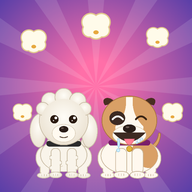
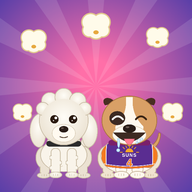
Marley's #4 Suns-style jersey + Speak trick
- New 'suns-jersey' outfit (purple, orange side panels/trim, sun burst, SUNS, big 4), worn over the chest in every pose and while inflating
- Marley's gold tag moves up onto the collar when she wears an outfit
- Jersey shows on the character select card and the app icon
- Speak trick: 3 barks in each dog's own voice with head lift, open-mouth bark face and WOOF!/YIP! bubble; Good Dog bonus and can be requested
- Trick buttons now a 3x2 grid; service worker cache bumped to v2
- New screenshots (screens/20-*)

diff --git a/games/pop-the-dog/dogs.js b/games/pop-the-dog/dogs.js
@@ -6,7 +6,7 @@
    Each part is a small SVG that gets turned into a picture once, then the
    game moves/rotates the parts every frame using a POSE.
 
-   Faces:  normal | happy | miss   (Bella's "miss" face is her famous RBF)
+   Faces:  normal | happy | miss | bark   (Bella's "miss" face is her famous RBF)
 
    HOW TO ADD AN OUTFIT (example: a Suns jersey for Marley)
      1. Add an entry to OUTFITS below, e.g.
@@ -16,7 +16,33 @@
      2. Set  outfit: 'suns-jersey'  on the dog in DOGS below.             */
 (function () {
   const OUTFITS = {
-    // none yet - Lucas is still deciding!
+    // Lucas's pick: a Phoenix-Suns-style fan jersey, number 4 (generic design, not an official logo)
+    'suns-jersey': {
+      name: 'Sun Jersey #4',
+      box: [80, 255, 240, 130],
+      tagUp: true,              // move the collar tag up onto the collar so it doesn't cover the jersey
+      svg: () =>
+        '<defs><clipPath id="jc"><ellipse cx="200" cy="322" rx="121" ry="79"/></clipPath></defs>' +
+        '<g clip-path="url(#jc)">' +
+        // main jersey
+        '<path d="M70 262 L330 262 L330 362 Q200 392 70 362 Z" fill="#5a2d91"/>' +
+        // orange side panels
+        '<path d="M70 262 L104 262 Q96 320 102 372 L70 366 Z" fill="#f47b20"/>' +
+        '<path d="M330 262 L296 262 Q304 320 298 372 L330 366 Z" fill="#f47b20"/>' +
+        '<path d="M104 262 Q96 320 102 372 M296 262 Q304 320 298 372" stroke="#fff" stroke-width="3" fill="none"/>' +
+        // hem trim
+        '<path d="M70 358 Q200 388 330 358" stroke="#f47b20" stroke-width="7" fill="none"/>' +
+        '<path d="M70 352 Q200 382 330 352" stroke="#fff" stroke-width="2.5" fill="none"/>' +
+        '</g>' +
+        // little sun burst + SUNS
+        '<g transform="translate(200 307)">' +
+        '<g stroke="#f9a825" stroke-width="3" stroke-linecap="round">' +
+        '<path d="M-30 0 l-10 0 M30 0 l10 0 M-21 -15 l-7 -7 M21 -15 l7 -7 M0 -20 l0 -9 M-11 -19 l-4 -8 M11 -19 l4 -8"/></g>' +
+        '<path d="M-17 0 A17 17 0 0 1 17 0 Z" fill="#f9a825"/></g>' +
+        '<text x="200" y="326" text-anchor="middle" font-family="Arial Black, Arial, Helvetica, sans-serif" font-weight="900" font-size="20" fill="#fff" letter-spacing="2">SUNS</text>' +
+        // big number 4
+        '<text x="200" y="368" text-anchor="middle" font-family="Arial Black, Arial, Helvetica, sans-serif" font-weight="900" font-size="46" fill="#f47b20" stroke="#fff" stroke-width="3" paint-order="stroke">4</text>',
+    },
   };
 
   const GROUND = 410;
@@ -95,11 +121,12 @@
       '<path d="M154 399 v10 M165 398 v11 M176 399 v10" stroke="#c9b79c" stroke-width="2"/>' },
     head: { box: [58, 52, 286, 266], pivot: [200, 262] },
   };
-  function marleyHead() {
+  function marleyHead(tagUp) {
     return '<path d="M95 105 C70 70 120 60 140 95 Z" fill="#4a2e22"/>' +
       '<path d="M305 105 C330 70 280 60 260 95 Z" fill="#4a2e22"/>' +
       '<rect x="110" y="254" width="180" height="24" rx="12" fill="#7a1f6a"/>' +
-      '<circle cx="200" cy="292" r="12" fill="#e2b33c" stroke="#a37a1c" stroke-width="2"/>' +
+      (tagUp ? '<circle cx="200" cy="270" r="11" fill="#e2b33c" stroke="#a37a1c" stroke-width="2"/>'
+             : '<circle cx="200" cy="292" r="12" fill="#e2b33c" stroke="#a37a1c" stroke-width="2"/>') +
       '<ellipse cx="200" cy="170" rx="118" ry="105" fill="#d9a066" stroke="#a9733f" stroke-width="3"/>' +
       '<path d="M185 70 C190 120 175 160 140 195 C130 250 270 250 260 195 C225 160 210 120 215 70 Z" fill="#fff8ee"/>' +
       '<ellipse cx="148" cy="160" rx="34" ry="30" fill="#3d2a22"/>';
@@ -125,12 +152,14 @@
         snout +
         '<path d="M182 242 L222 239" stroke="#5a4636" stroke-width="4" stroke-linecap="round"/>';
     }
-    // normal: wide-eyed popcorn stare
+    // normal: wide-eyed popcorn stare  (bark: same eyes, mouth wide open)
     return '<circle cx="160" cy="165" r="18" fill="#2a1a10"/><circle cx="240" cy="165" r="18" fill="#2a1a10"/>' +
       '<circle cx="166" cy="159" r="6" fill="#fff"/><circle cx="246" cy="159" r="6" fill="#fff"/>' +
       '<circle cx="156" cy="171" r="2.5" fill="#fff"/><circle cx="236" cy="171" r="2.5" fill="#fff"/>' +
-      snout +
-      '<path d="M184 240 Q200 248 216 240" stroke="#5a4636" stroke-width="4" fill="none" stroke-linecap="round"/>';
+      (face === 'bark'
+        ? '<path d="M120 135 Q160 122 180 140 M220 140 Q240 122 280 135" stroke="#cbbfa8" stroke-width="5" fill="none" stroke-linecap="round"/>' + snout +
+          '<ellipse cx="200" cy="252" rx="24" ry="22" fill="#5a2c24"/><path d="M186 262 Q200 278 214 262 Z" fill="#ff7f93"/>'
+        : snout + '<path d="M184 240 Q200 248 216 240" stroke="#5a4636" stroke-width="4" fill="none" stroke-linecap="round"/>');
   }
 
 
@@ -161,9 +190,11 @@
           '<path d="M232 140 Q250 125 270 135" stroke="#6b4a32" stroke-width="5" fill="none" stroke-linecap="round"/>') +
       jowls +
       (sad ? '<path d="M165 252 Q200 232 235 252" stroke="#3d2a22" stroke-width="6" fill="none" stroke-linecap="round"/>'
+           : face === 'bark' ? '<path d="M138 222 Q200 318 262 222 Z" fill="#3d2a22"/>'
            : '<path d="M135 225 Q200 285 265 225" fill="#3d2a22" opacity="0.85"/>') +
       nose +
-      (sad ? '' : '<path d="M185 248 Q200 280 215 248 Z" fill="#ff7f93"/>') +
+      (sad ? '' : face === 'bark' ? '<path d="M178 262 Q200 300 222 262 Z" fill="#ff7f93" stroke="#e0607a" stroke-width="2"/>'
+           : '<path d="M185 248 Q200 280 215 248 Z" fill="#ff7f93"/>') +
       marleyDrool;
   }
 
@@ -184,13 +215,13 @@
       blurb: 'Chubby, slobbery, lovable goober.',
       power: 'Slobber bonus: drool makes popcorn stick!',
       color: '#e8b27a',
-      outfit: null,
+      outfit: 'suns-jersey',   // Lucas's pick! (set to null to take it off)
       catchBonus: 1.15,
       voice: { pitch: 0.72, gruff: 0.8 },  // lower, gruffer bark
       parts: marleyParts, headSvg: marleyHead, face: marleyFace,
     },
   };
-  const FACES = ['normal', 'happy', 'miss'];
+  const FACES = ['normal', 'happy', 'miss', 'bark'];
 
   // ---------- turn part SVGs into pictures (offscreen canvases) ----------
   const RES = 2;   // pixels per art unit (sharp enough for phones)
@@ -217,7 +248,8 @@
     const jobs = [];
     ['tail', 'backStand', 'backSit', 'body', 'leg', 'paw'].forEach(k =>
       jobs.push(svgImage(P[k].box, P[k].svg).then(c => { out[k] = c; })));
-    FACES.forEach(f => jobs.push(svgImage(P.head.box, d.headSvg() + d.face(f)).then(c => { out.faces[f] = c; })));
+    const tagUp = !!(d.outfit && OUTFITS[d.outfit] && OUTFITS[d.outfit].tagUp);
+    FACES.forEach(f => jobs.push(svgImage(P.head.box, d.headSvg(tagUp) + d.face(f)).then(c => { out.faces[f] = c; })));
     if (d.outfit && OUTFITS[d.outfit]) {
       const o = OUTFITS[d.outfit];
       jobs.push(svgImage(o.box, o.svg(dogId)).then(c => { out.outfit = c; out.outfitBox = o.box; }));
@@ -262,6 +294,7 @@
     pretty: { dy: -8, back: 'sit', fl: -2.1, fls: 0.42, fr: -2.1, frs: 0.42, headDY: -6, sy: 1.04, tail: 0.4 },
     pretty2: { dy: -14, back: 'sit', fl: -1.85, fls: 0.45, fr: -1.85, frs: 0.45, headDY: -8, headRot: 0.1, sy: 1.05, tail: 0.4 },
     beg: { dy: 0, headRot: 0.22, wag: 0.4 },
+    speak: { dy: 22, back: 'sit', headDY: -18, headRot: -0.08, tail: 0.6, wag: 1.3, sy: 1.03 },
   };
   function pose(name, extra) { return Object.assign({}, BASE, POSES[name] || {}, extra || {}); }
   const ease = t => t < 0.5 ? 2 * t * t : 1 - Math.pow(-2 * t + 2, 2) / 2;
@@ -289,7 +322,13 @@
       [0, pose('stand')], [0.35, pose('sit')], [0.8, pose('pretty')], [1.1, pose('pretty2')], [1.4, pose('pretty')],
       [1.7, pose('pretty2')], [2.0, pose('pretty')], [2.4, pose('sit')], [2.8, pose('sit')]] },
   };
-  const TRICK_ORDER = ['shake', 'sit', 'stay', 'rollover', 'sitpretty'];
+  // Speak: she barks on command (game.js plays a bark + WOOF! at each time in "barks")
+  TRICKS.speak = { name: 'Speak', icon: 'speak', dur: 2.3, barks: [0.55, 1.05, 1.55], keys: [
+    [0, pose('stand')], [0.35, pose('sit', { dy: 22 })],
+    [0.55, pose('speak')], [0.8, pose('sit', { dy: 22, headDY: -4 })],
+    [1.05, pose('speak', { headRot: 0.08 })], [1.3, pose('sit', { dy: 22, headDY: -4 })],
+    [1.55, pose('speak')], [1.9, pose('sit', { dy: 22 })], [2.3, pose('sit')]] };
+  const TRICK_ORDER = ['shake', 'sit', 'stay', 'speak', 'rollover', 'sitpretty'];
   function trickPose(id, time) {
     const k = TRICKS[id].keys;
     if (time <= k[0][0]) return k[0][1];
@@ -336,7 +375,6 @@
     t.save(); t.translate(0, p.dy);
     t.about(200, 330, () => t.rotate(p.lean));
     put(imgs.body, P.body.box);
-    if (imgs.outfit) put(imgs.outfit, imgs.outfitBox);
     info.body = t.m();
     t.restore();
 
@@ -359,6 +397,14 @@
     const raised = Math.abs(p.fl) > 1.6 || Math.abs(p.fr) > 1.6;
     const legs = () => { leg(-1, p.fl, p.fls); leg(1, p.fr, p.frs); };
     if (!raised) legs();
+
+    // outfit: worn over the chest, so the front legs come out from under it
+    if (imgs.outfit) {
+      t.save(); t.translate(0, p.dy);
+      t.about(200, 330, () => t.rotate(p.lean));
+      put(imgs.outfit, imgs.outfitBox);
+      t.restore();
+    }
 
     // head
     t.save(); t.translate(0, p.dy + p.headDY);

diff --git a/games/pop-the-dog/game.js b/games/pop-the-dog/game.js
@@ -354,6 +354,7 @@
     sit: '<svg viewBox="0 0 32 32"><path d="M9 28 V20 Q9 12 15 11 L15 6 Q15 3 18 3 L22 4 L25 7 L21 9 L21 13 Q25 17 24 28 Z" fill="#fff"/></svg>',
     hand: '<svg viewBox="0 0 32 32"><path d="M10 29 Q6 22 6 16 L6 10 Q6 8 8 8 Q10 8 10 10 L10 15 L10 5 Q10 3 12 3 Q14 3 14 5 L14 14 L14 3.5 Q14 1.5 16 1.5 Q18 1.5 18 3.5 L18 14 L18 5 Q18 3 20 3 Q22 3 22 5 L22 17 L24 13 Q25.5 11 27 12 Q28.5 13 27.5 15 L23 25 Q21 29 17 29 Z" fill="#fff"/></svg>',
     roll: '<svg viewBox="0 0 32 32"><path d="M16 4 A12 12 0 1 1 5 11" stroke="#fff" stroke-width="4" fill="none" stroke-linecap="round"/><path d="M1 6 L6 13 L11 7 Z" fill="#fff"/></svg>',
+    speak: '<svg viewBox="0 0 32 32"><path d="M4 6 Q4 3 7 3 L25 3 Q28 3 28 6 L28 18 Q28 21 25 21 L13 21 L7 28 L8 21 L7 21 Q4 21 4 18 Z" fill="#fff"/><text x="16" y="16" text-anchor="middle" font-size="9" font-weight="900" fill="#7c5cff" font-family="Arial">WOOF</text></svg>',
     pretty: '<svg viewBox="0 0 32 32"><g fill="#fff"><ellipse cx="10" cy="16" rx="5" ry="6"/><ellipse cx="22" cy="16" rx="5" ry="6"/><circle cx="7" cy="9" r="2"/><circle cx="11" cy="8" r="2"/><circle cx="21" cy="8" r="2"/><circle cx="25" cy="9" r="2"/></g><path d="M8 27 Q16 23 24 27" stroke="#fff" stroke-width="3" fill="none" stroke-linecap="round"/></svg>',
   };
   function buildTrickBar() {
@@ -379,7 +380,7 @@
     S.trickAsked = S.request === id;
     S.request = null; S.reward = 0; S.trick = id; S.trickT = 0; S.begT = 0;
     S.nextRequest = S.time + rand(12, 18);
-    addText(dog().name + ', ' + PTD.TRICKS[id].name.toUpperCase() + '!', W / 2, H * 0.24, '#7c5cff', 24, 1.3, 0);
+    addText(dog().name + ', ' + PTD.TRICKS[id].name.toUpperCase() + '!', W / 2, H * 0.26, '#7c5cff', 24, 1.3, 0);
     updateTrickButtons();
   }
   function finishTrick() {
@@ -550,6 +551,14 @@
     if (S.trick) {
       S.trickT += dt;
       S.pose = PTD.trickPose(S.trick, S.trickT);
+      const tk = PTD.TRICKS[S.trick];
+      if (tk.barks) tk.barks.forEach(bt => {
+        if (S.trickT >= bt && S.trickT - dt < bt) {
+          sfx.bark(dog().voice.pitch, dog().voice.gruff, 1);
+          setFace('bark', 0.28);
+          S.bubble = { text: S.dogId === 'marley' ? 'WOOF!' : 'YIP! YIP!', t: 0.45 };
+        }
+      });
       if (S.trick === 'stay' && Math.floor(S.trickT - 0.6) !== Math.floor(S.trickT - 0.6 - dt) && S.trickT > 0.6 && S.trickT < 3.6) sfx.click();
       if (S.trickT >= PTD.TRICKS[S.trick].dur) finishTrick();
     } else {
@@ -764,7 +773,7 @@
     ctx.save();
     ctx.font = '800 17px ' + FONT;
     const w = ctx.measureText(text).width + 26, h = 36;
-    let x = clamp(S.headTop.x + 30, w / 2 + 6, W - w / 2 - 6), y = Math.max(S.headTop.y - 40, 128);
+    let x = clamp(S.headTop.x + 30, w / 2 + 6, W - w / 2 - 6), y = Math.max(S.headTop.y - 40, 168);
     ctx.fillStyle = isAsk ? '#ffb800' : '#fff'; ctx.strokeStyle = isAsk ? '#b37f00' : '#6b3f1d'; ctx.lineWidth = 3;
     roundRect(ctx, x - w / 2, y - h / 2, w, h, 16); ctx.fill(); ctx.stroke();
     ctx.beginPath(); ctx.moveTo(x - 18, y + h / 2 - 2); ctx.lineTo(x - 30, y + h / 2 + 14); ctx.lineTo(x - 4, y + h / 2 - 2); ctx.closePath();
@@ -879,7 +888,7 @@
       const id = Q.get('trick') || 'shake';
       doTrick(id); S.trickT = parseFloat(Q.get('tt') || '0.8');
       S.texts = [];
-      addText(S.dogId[0].toUpperCase() + S.dogId.slice(1) + ', ' + PTD.TRICKS[id].name.toUpperCase() + '!', W / 2, H * 0.24, '#7c5cff', 24, 99, 0);
+      addText(S.dogId[0].toUpperCase() + S.dogId.slice(1) + ', ' + PTD.TRICKS[id].name.toUpperCase() + '!', W / 2, H * 0.26, '#7c5cff', 24, 99, 0);
     }
     if (DEBUG === 'pop') { S.score = GOAL; updateHud(); startPop(); }
     // fast-forward to the freeze moment (headless browsers barely run animation frames)

diff --git a/games/pop-the-dog/style.css b/games/pop-the-dog/style.css
@@ -28,12 +28,13 @@ canvas#c { position: absolute; inset: 0; width: 100%; height: 100%; touch-action
   text-align: center; color: #ff5a1f; box-shadow: 0 3px 0 rgba(0,0,0,.18); }
 
 /* ---------- trick bar ---------- */
-#tricks { position: absolute; left: 6px; right: 6px; top: calc(env(safe-area-inset-top) + 62px); z-index: 15;
-  display: flex; gap: 5px; justify-content: center; }
-.trick { flex: 1; max-width: 92px; border: 3px solid #fff; border-radius: 14px; background: #7c5cff; color: #fff;
-  font: inherit; font-weight: 900; font-size: 11.5px; line-height: 1.05; padding: 4px 2px 5px; cursor: pointer;
-  box-shadow: 0 3px 0 #4a2fc4; display: flex; flex-direction: column; align-items: center; gap: 1px; }
-.trick svg { width: 26px; height: 26px; }
+#tricks { position: absolute; left: 8px; right: 8px; top: calc(env(safe-area-inset-top) + 60px); z-index: 15;
+  display: grid; grid-template-columns: repeat(3, 1fr); gap: 6px; max-width: 420px; margin: 0 auto; }
+.trick { border: 3px solid #fff; border-radius: 14px; background: #7c5cff; color: #fff; min-height: 38px;
+  font: inherit; font-weight: 900; font-size: 14px; line-height: 1; padding: 3px 6px; cursor: pointer;
+  box-shadow: 0 3px 0 #4a2fc4; display: flex; flex-direction: row; align-items: center; justify-content: center; gap: 5px; }
+.trick svg { width: 22px; height: 22px; flex: 0 0 22px; }
+.trick span { white-space: nowrap; }
 .trick:active { transform: translateY(2px); box-shadow: 0 1px 0 #4a2fc4; }
 .trick:disabled { opacity: .45; }
 .trick.asked { background: #ffb800; box-shadow: 0 3px 0 #b37f00; animation: wiggle .45s ease-in-out infinite alternate; opacity: 1; }

diff --git a/sw.js b/sw.js
@@ -1,6 +1,6 @@
 /* Lucas's Arcade - service worker: keeps every file on the phone so the arcade works offline.
    When you change or add files: add them to FILES and bump VERSION. */
-const VERSION = 'lucas-arcade-v1';
+const VERSION = 'lucas-arcade-v2';
 const FILES = [
   './',
   './index.html',

diff --git a/README.md b/README.md
@@ -12,10 +12,10 @@ own icon and works offline.
 | *Coming soon* | | Lucas's next idea! |
 
 ### Pop the Dog
-- Pick **Bella** (fluffy Goldendoodle, famous RBF face when you miss) or **Marley** (chubby, slobbery American Bulldog; her drool gives a **slobber bonus**, and fur floats off her).
+- Pick **Bella** (fluffy Goldendoodle, famous RBF face when you miss) or **Marley** (chubby, slobbery American Bulldog in her #4 Suns-style jersey; her drool gives a **slobber bonus**, and fur floats off her).
 - **Swipe up** from the bowl to flick popcorn (or **tap** where you want it to go).
 - The bigger she gets, the more she wiggles side to side.
-- **Tricks:** Shake, Sit, Stay, Roll Over, Sit Pretty. When she finishes, toss her a treat for a **GOOD DOG** bonus. Sometimes she asks for a trick herself, and doing the one she asked for gives extra points.
+- **Tricks:** Shake, Sit, Stay, Speak, Roll Over, Sit Pretty. When she finishes, toss her a treat for a **GOOD DOG** bonus. Sometimes she asks for a trick herself, and doing the one she asked for gives extra points.
 - Stop tossing popcorn and she starts whimpering and begging. She barks too (Bella yips higher, Marley barks lower and gruffer).
 - Fill the **POP METER**, she pops into popcorn and confetti (and comes right back, totally fine), and a prize card flips over. Prizes go on the **Trophy Shelf** on the home screen.
 - All sounds are made in code (Web Audio). The speaker button mutes them.
@@ -45,9 +45,10 @@ screens/              screenshots
 2. Add it to `js/games.js`.
 3. Add its files to `FILES` in `sw.js` and bump `VERSION`.
 
-### Give a dog an outfit (like a Suns jersey for Marley)
-See the note at the top of `games/pop-the-dog/dogs.js`: add an entry to `OUTFITS`
-and set `outfit:` on the dog.
+### Outfits
+Marley wears Lucas's pick: a purple and orange Suns-style fan jersey, number **4**
+(`suns-jersey` in `OUTFITS` in `games/pop-the-dog/dogs.js`). To add another outfit, add an
+entry to `OUTFITS` and set `outfit:` on the dog.
 
 ### Testing shortcuts
 Add these to the Pop the Dog URL: `?debug=play`, `?debug=mid`, `?debug=pop`, `?debug=prize`,
